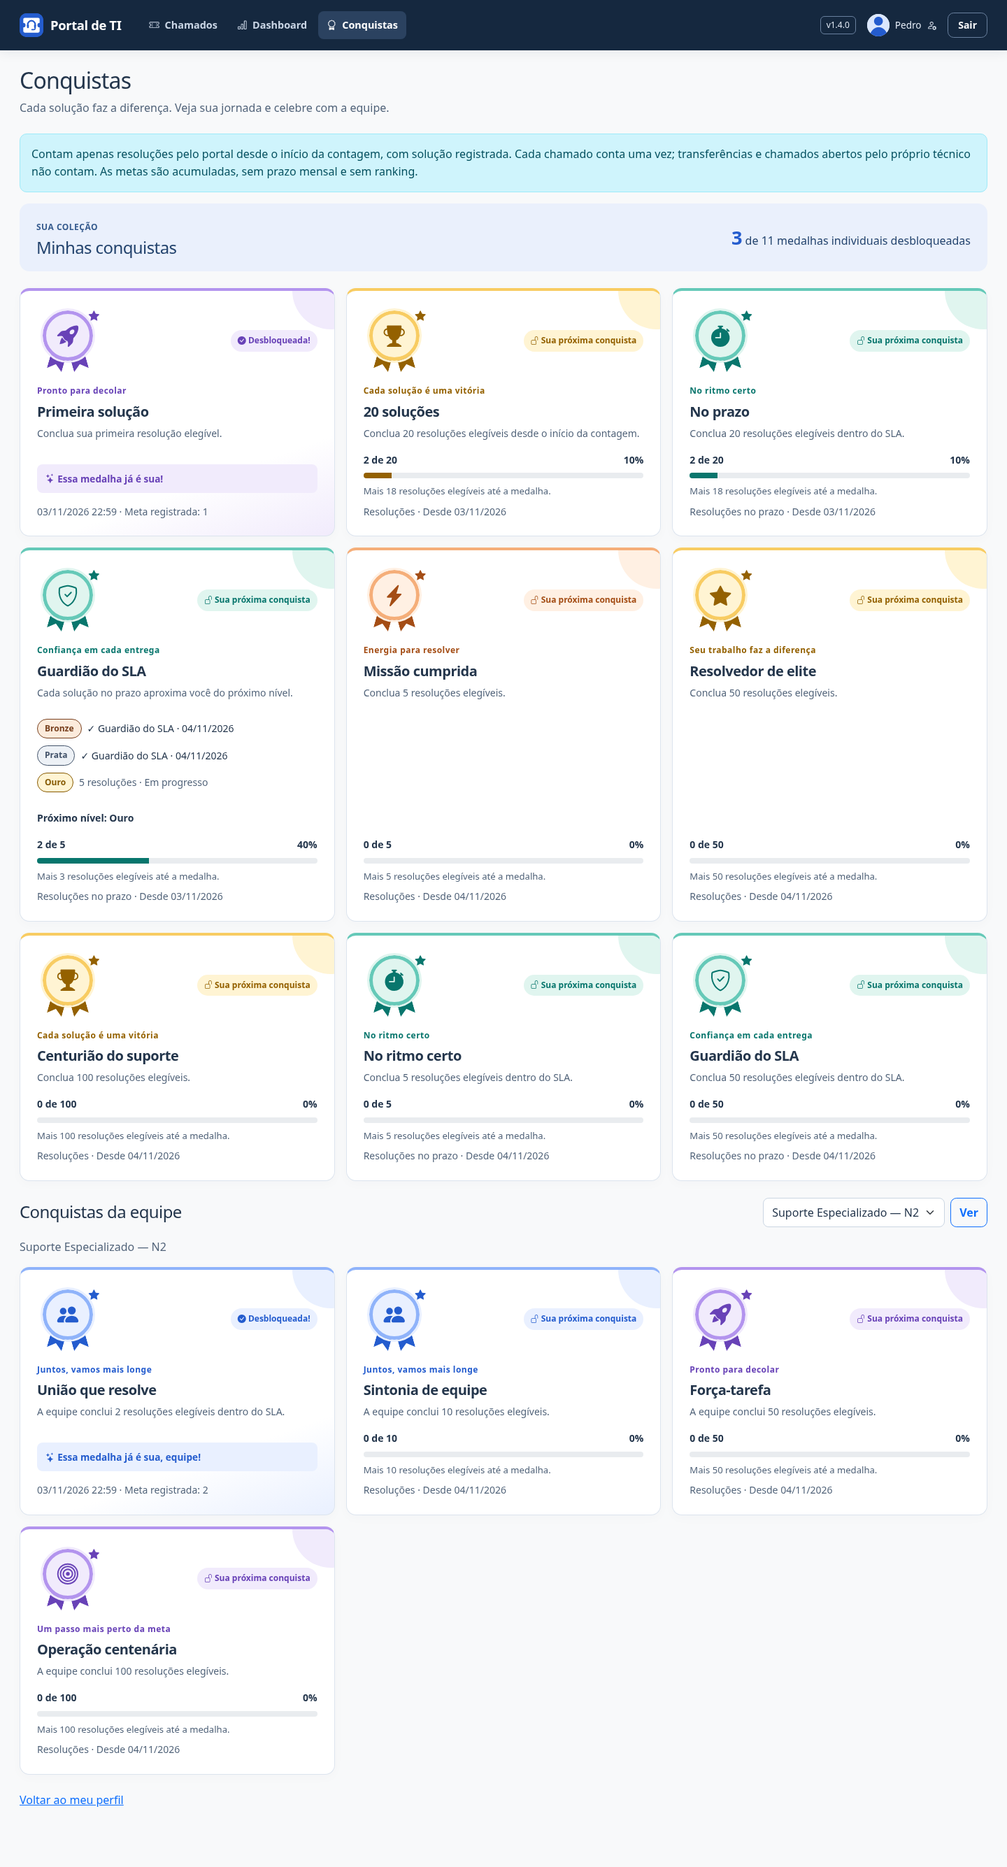
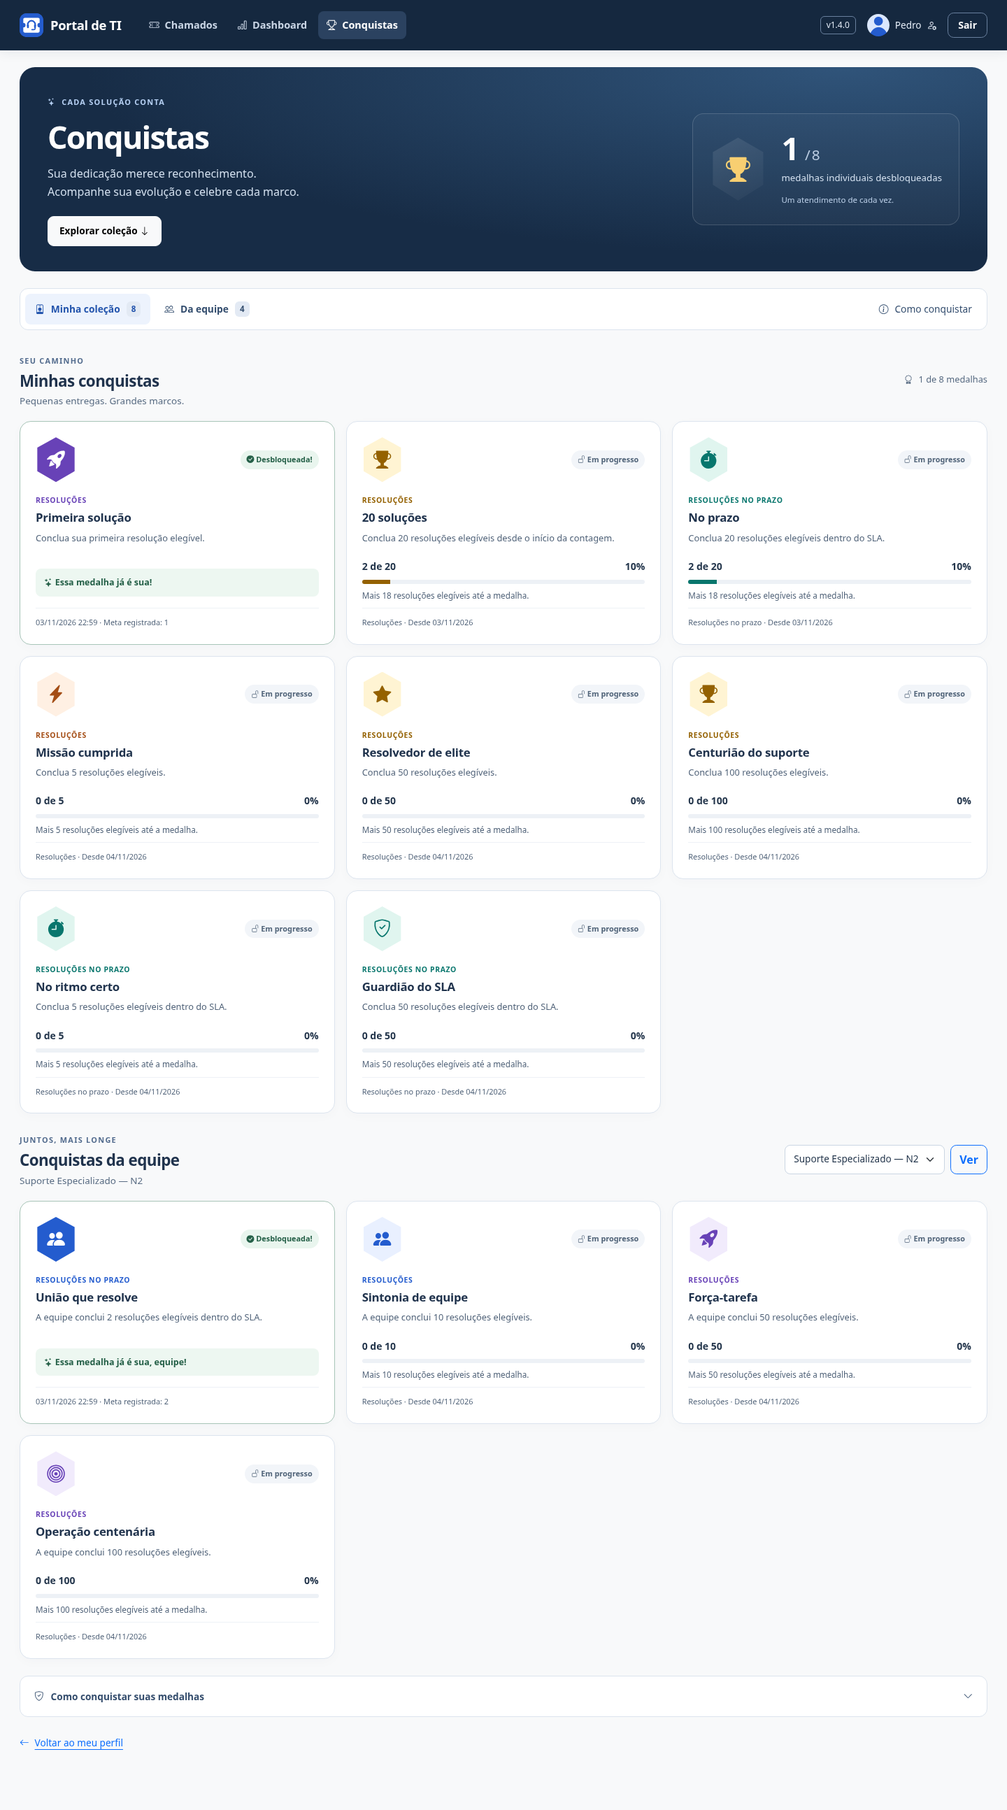
style: refine achievement collection and navigation

diff --git a/helpdesk/static/helpdesk/css/portal.css b/helpdesk/static/helpdesk/css/portal.css
@@ -186,3 +186,60 @@ form label { color: var(--portal-ink); }
 .nivel-unico { color: #245cce; background: #e9f0ff; }
 .trilha-niveis li { display: flex; flex-wrap: wrap; align-items: center; gap: 8px; margin-block: 10px; }
 .conquista-card h3, .conquista-card p, .trilha-niveis { overflow-wrap: anywhere; }
+/* Coleção de conquistas: navegação por seção e cartões compactos. */
+.conquistas-page { --colecao-ink: #20334d; --colecao-muted: #596c83; }
+.conquistas-hero { display: flex; justify-content: space-between; align-items: center; gap: 32px; padding: 36px 40px; border-radius: 22px; background: radial-gradient(ellipse at 85% 0, #30547a 0, transparent 65%), #172c46; color: #fff; }
+.conquistas-eyebrow { display: inline-flex; align-items: center; gap: 8px; font-size: .68rem; font-weight: 750; letter-spacing: .12em; color: #526b8d; }
+.conquistas-hero .conquistas-eyebrow { color: #b6d0f3; }
+.conquistas-hero h1 { color: #fff; font-size: clamp(2rem, 4vw, 2.8rem); font-weight: 750; letter-spacing: -.04em; margin: 12px 0; }
+.conquistas-hero-texto > p { color: #d2dfee; line-height: 1.65; margin-bottom: 22px; }
+.conquistas-hero-acoes { display: flex; align-items: center; flex-wrap: wrap; gap: 20px; }
+.conquistas-hero-acoes .btn { font-size: .85rem; font-weight: 650; padding: 10px 16px; border-radius: 9px; }
+.conquistas-gerenciar { color: #e1edfc; font-size: .85rem; text-underline-offset: 4px; }
+.conquistas-gerenciar:hover { color: #fff; }
+.conquistas-resumo { display: flex; align-items: center; gap: 22px; padding: 24px; border: 1px solid #ffffff29; border-radius: 16px; background: #ffffff08; max-width: 420px; }
+.conquistas-emblema { width: 80px; height: 90px; display: grid; place-items: center; flex-shrink: 0; color: #f8cf71; background: linear-gradient(145deg, #ffffff1c, #ffffff05); clip-path: polygon(50% 0, 95% 23%, 95% 75%, 50% 100%, 5% 75%, 5% 23%); font-size: 2.2rem; }
+.conquistas-resumo-numero { display: block; font-size: 2.8rem; font-weight: 750; line-height: 1.1; letter-spacing: -.04em; }
+.conquistas-resumo-numero > span { color: #bacce2; font-size: 1.3rem; font-weight: 450; }
+.conquistas-resumo p { font-size: .83rem; color: #d2dfee; margin: 8px 0; }
+.conquistas-resumo-legenda { font-size: .72rem; color: #b9cde6; }
+.conquistas-menu { display: flex; flex-wrap: wrap; gap: 6px; padding: 7px; border: 1px solid var(--portal-line); border-radius: 12px; background: #fff; margin-bottom: 30px; }
+.conquistas-menu a { display: inline-flex; align-items: center; justify-content: center; gap: 9px; min-height: 44px; padding: 8px 14px; border-radius: 8px; color: #334d6e; font-size: .86rem; font-weight: 650; text-decoration: none; }
+.conquistas-menu a:first-child { background: #edf3fd; color: #2455ad; }
+.conquistas-menu a:hover { background: #edf3fd; }
+.conquistas-menu a > span { background: #e3eaf4; padding: 2px 7px; border-radius: 6px; font-size: .72rem; }
+.conquistas-menu .conquistas-ajuda { margin-left: auto; font-weight: 450; }
+.conquistas-secao, .conquistas-regras { scroll-margin-top: 24px; }
+.conquistas-secao-titulo { display: flex; justify-content: space-between; align-items: center; flex-wrap: wrap; gap: 16px; margin-bottom: 18px; }
+.conquistas-secao h2 { font-size: 1.4rem; font-weight: 700; color: var(--colecao-ink); margin: 5px 0; letter-spacing: -.025em; }
+.conquistas-secao-titulo p { font-size: .84rem; color: var(--colecao-muted); margin: 0; }
+.conquistas-contador { display: inline-flex; gap: 8px; font-size: .8rem; color: var(--colecao-muted); }
+.conquistas-equipe-form { display: flex; gap: 8px; max-width: 100%; }
+.conquistas-equipe-form select { min-width: 0; max-width: 280px; font-size: .85rem; }
+.conquistas-page .conquista-card { border: 1px solid #dce4ee !important; border-radius: 16px; box-shadow: 0 3px 12px #17334e04; background: #fff; }
+.conquistas-page .conquista-card::after { display: none; }
+.conquistas-page .conquista-card .card-body { padding: 22px; }
+.conquistas-page .conquista-topo { margin-bottom: 18px !important; }
+.conquistas-page .conquista-medalha { width: 58px; height: 64px; }
+.conquistas-page .conquista-medalha::before, .conquistas-page .conquista-medalha::after, .conquistas-page .conquista-brilho { display: none; }
+.conquistas-page .conquista-medalha-centro { width: 58px; height: 64px; margin: 0; border: 0; outline: 0; border-radius: 0; clip-path: polygon(50% 0, 96% 23%, 96% 76%, 50% 100%, 4% 76%, 4% 23%); font-size: 1.6rem; background: var(--medalha-suave); }
+.conquistas-page .conquista-obtida { border-color: #a8c5b8 !important; }
+.conquistas-page .conquista-obtida .conquista-medalha-centro { color: #fff; background: var(--medalha); }
+.conquistas-page .conquista-estado { background: #f2f5f9; color: #52657a; font-size: .68rem; padding: 5px 9px; }
+.conquistas-page .conquista-obtida .conquista-estado { color: #256048; background: #e9f5ee; }
+.conquistas-page .conquista-chamada { font-size: .65rem; letter-spacing: .06em; text-transform: uppercase; margin-bottom: 7px !important; }
+.conquistas-page .conquista-card h3 { font-size: 1.05rem; color: var(--colecao-ink); letter-spacing: -.015em; }
+.conquistas-page .conquista-card h3 + p { font-size: .8rem; line-height: 1.6; margin-bottom: 20px; }
+.conquistas-page .conquista-card .progress { height: 6px; background: #edf1f6; }
+.conquistas-page .conquista-incentivo { font-size: .73rem; }
+.conquistas-page .conquista-data { font-size: .68rem; padding-top: 12px; border-top: 1px solid #edf1f6; }
+.conquistas-page .conquista-celebracao { font-size: .78rem; background: #edf7f1; color: #256048; }
+.conquistas-regras { border: 1px solid var(--portal-line); background: #fff; border-radius: 12px; margin: 8px 0 24px; }
+.conquistas-regras summary { display: flex; justify-content: space-between; align-items: center; gap: 14px; padding: 18px 20px; color: #344d6d; font-size: .85rem; font-weight: 650; cursor: pointer; list-style: none; }
+.conquistas-regras summary::-webkit-details-marker { display: none; }
+.conquistas-regras summary > span { display: inline-flex; align-items: center; gap: 10px; }
+.conquistas-regras[open] summary > .bi-chevron-down { transform: rotate(180deg); }
+.conquistas-regras > div { padding: 0 20px 20px; font-size: .84rem; line-height: 1.7; color: var(--colecao-muted); }
+.conquistas-voltar { display: inline-flex; gap: 8px; align-items: center; font-size: .85rem; text-underline-offset: 4px; }
+@media (max-width: 991.98px) { .conquistas-hero { padding: 28px; gap: 24px; } .conquistas-resumo { max-width: 300px; padding: 20px; gap: 14px; } .conquistas-emblema { width: 56px; height: 64px; font-size: 1.7rem; } }
+@media (max-width: 767.98px) { .conquistas-hero { flex-direction: column; align-items: stretch; padding: 24px; border-radius: 16px; } .conquistas-resumo { max-width: none; } .conquistas-menu a { flex: 1 1 auto; padding-inline: 10px; } .conquistas-menu .conquistas-ajuda { margin-left: 0; } .conquistas-secao-titulo { align-items: flex-start; } .conquistas-equipe-form { width: 100%; } .conquistas-equipe-form select { flex: 1; max-width: none; } }

diff --git a/helpdesk/templates/helpdesk/conquistas/lista.html b/helpdesk/templates/helpdesk/conquistas/lista.html
@@ -1,14 +1,21 @@
 {% extends 'helpdesk/equipes/base.html' %}
 {% block titulo %}Conquistas{% endblock %}
 {% block conteudo %}
-<div class="d-flex flex-wrap justify-content-between gap-3 mb-4"><div><h1 class="h2">Conquistas</h1><p class="text-muted mb-0">Cada solução faz a diferença. Veja sua jornada e celebre com a equipe.</p></div>{% if request.user.is_superuser %}<div><a class="btn btn-outline-primary" href="{% url 'gerenciar_conquistas' %}">Gerenciar conquistas</a></div>{% endif %}</div>
-<div class="alert alert-info">Contam apenas resoluções pelo portal desde o início da contagem, com solução registrada. Cada chamado conta uma vez; transferências e chamados abertos pelo próprio técnico não contam. As metas são acumuladas, sem prazo mensal e sem ranking.</div>
-<div class="conquista-colecao mb-4"><div><span class="conquista-chamada">SUA COLEÇÃO</span><h2 class="h4 mb-0 mt-1">Minhas conquistas</h2></div><p class="mb-0"><strong>{{ desbloqueadas }}</strong> de {{ total_pessoais }} medalhas individuais desbloqueadas</p></div>
+<div class="conquistas-page">
+<header class="conquistas-hero mb-4">
+    <div class="conquistas-hero-texto"><span class="conquistas-eyebrow"><i class="bi bi-stars" aria-hidden="true"></i> CADA SOLUÇÃO CONTA</span><h1>Conquistas</h1><p>Sua dedicação merece reconhecimento.<br>Acompanhe sua evolução e celebre cada marco.</p><div class="conquistas-hero-acoes"><a href="#minha-colecao" class="btn btn-light">Explorar coleção <i class="bi bi-arrow-down" aria-hidden="true"></i></a>{% if request.user.is_superuser %}<a class="conquistas-gerenciar" href="{% url 'gerenciar_conquistas' %}"><i class="bi bi-sliders" aria-hidden="true"></i> Gerenciar conquistas</a>{% endif %}</div></div>
+    <div class="conquistas-resumo"><span class="conquistas-emblema" aria-hidden="true"><i class="bi bi-trophy-fill"></i></span><div><span class="conquistas-resumo-numero">{{ desbloqueadas }} <span>/ {{ total_pessoais }}</span></span><p>medalhas individuais desbloqueadas</p><span class="conquistas-resumo-legenda">Um atendimento de cada vez.</span></div></div>
+</header>
+<nav class="conquistas-menu" aria-label="Seções de conquistas"><a href="#minha-colecao"><i class="bi bi-person-badge" aria-hidden="true"></i> Minha coleção <span>{{ pessoais|length }}</span></a>{% if equipe_selecionada %}<a href="#colecao-equipe"><i class="bi bi-people" aria-hidden="true"></i> Da equipe <span>{{ coletivas|length }}</span></a>{% endif %}<a href="#como-conquistar" class="conquistas-ajuda"><i class="bi bi-info-circle" aria-hidden="true"></i> Como conquistar</a></nav>
+<section id="minha-colecao" class="conquistas-secao" aria-labelledby="titulo-colecao"><div class="conquistas-secao-titulo"><div><span class="conquistas-eyebrow">SEU CAMINHO</span><h2 id="titulo-colecao">Minhas conquistas</h2><p>Pequenas entregas. Grandes marcos.</p></div><span class="conquistas-contador"><i class="bi bi-award" aria-hidden="true"></i> {{ desbloqueadas }} de {{ total_pessoais }} medalhas</span></div>
 {% include 'helpdesk/conquistas/cartoes.html' with cartoes=pessoais %}
+</section>
 {% if equipe_selecionada %}
-<div class="d-flex flex-wrap justify-content-between align-items-center gap-3 mb-3"><h2 class="h4 mb-0">Conquistas da equipe</h2><form method="get" class="d-flex gap-2"><label for="equipe-conquista" class="visually-hidden">Equipe</label><select class="form-select" id="equipe-conquista" name="equipe">{% for equipe in equipes %}<option value="{{ equipe.pk }}" {% if equipe.pk == equipe_selecionada.pk %}selected{% endif %}>{{ equipe.nome }}</option>{% endfor %}</select><button class="btn btn-outline-primary" type="submit">Ver</button></form></div>
-<p class="text-muted">{{ equipe_selecionada.nome }}{% if not equipe_selecionada.ativa %} · Equipe inativa{% endif %}</p>
+<section id="colecao-equipe" class="conquistas-secao" aria-labelledby="titulo-equipe"><div class="conquistas-secao-titulo"><div><span class="conquistas-eyebrow">JUNTOS, MAIS LONGE</span><h2 id="titulo-equipe">Conquistas da equipe</h2><p>{{ equipe_selecionada.nome }}{% if not equipe_selecionada.ativa %} · Equipe inativa{% endif %}</p></div><form method="get" action="#colecao-equipe" class="conquistas-equipe-form"><label for="equipe-conquista" class="visually-hidden">Equipe</label><select class="form-select" id="equipe-conquista" name="equipe">{% for equipe in equipes %}<option value="{{ equipe.pk }}" {% if equipe.pk == equipe_selecionada.pk %}selected{% endif %}>{{ equipe.nome }}</option>{% endfor %}</select><button class="btn btn-outline-primary" type="submit">Ver</button></form></div>
 {% include 'helpdesk/conquistas/cartoes.html' with cartoes=coletivas %}
+</section>
 {% endif %}
-<a href="{% url 'meu_perfil' %}">Voltar ao meu perfil</a>
+<details id="como-conquistar" class="conquistas-regras"><summary><span><i class="bi bi-shield-check" aria-hidden="true"></i> Como conquistar suas medalhas</span><i class="bi bi-chevron-down" aria-hidden="true"></i></summary><div><p>Contam apenas resoluções pelo portal desde o início da contagem, com solução registrada. Cada chamado conta uma vez; transferências e chamados abertos pelo próprio técnico não contam.</p><p class="mb-0">As metas são acumuladas, sem prazo mensal e sem ranking. A data de início e o critério aparecem em cada conquista; medalhas recebidas permanecem no seu histórico.</p></div></details>
+<a class="conquistas-voltar" href="{% url 'meu_perfil' %}"><i class="bi bi-arrow-left" aria-hidden="true"></i> Voltar ao meu perfil</a>
+</div>
 {% endblock %}

diff --git a/helpdesk/templates/helpdesk/conquistas/cartoes.html b/helpdesk/templates/helpdesk/conquistas/cartoes.html
@@ -1,13 +1,13 @@
 <div class="row g-3 mb-4">
-{% for item in cartoes %}<div class="col-md-6 col-xl-4"><article class="card h-100 conquista-card conquista-{{ item.visual.cor }} {% if item.conquista %}conquista-obtida{% elif not item.regra.ativa %}conquista-pausada{% endif %}"><div class="card-body p-4 d-flex flex-column">
-<div class="conquista-topo mb-3"><span class="conquista-medalha" aria-hidden="true"><span class="conquista-medalha-centro"><i class="bi bi-{{ item.visual.simbolo }}"></i></span><i class="bi bi-star-fill conquista-brilho"></i></span><span class="conquista-estado">{% if item.conquista %}<i class="bi bi-check-circle-fill" aria-hidden="true"></i> Desbloqueada!{% elif not item.regra.ativa %}<i class="bi bi-pause-circle" aria-hidden="true"></i> Pausada{% else %}<i class="bi bi-unlock" aria-hidden="true"></i> Sua próxima conquista{% endif %}</span></div>
-<p class="conquista-chamada mb-2">{{ item.visual.chamada }}</p>
+{% for item in cartoes %}<div class="col-md-6 col-xl-4"><article class="card h-100 conquista-card conquista-{{ item.visual.cor }} {% if item.conquista %}conquista-obtida{% elif not item.regra.ativa %}conquista-pausada{% endif %}"><div class="card-body d-flex flex-column">
+<div class="conquista-topo mb-3"><span class="conquista-medalha" aria-hidden="true"><span class="conquista-medalha-centro"><i class="bi bi-{{ item.visual.simbolo }}"></i></span><i class="bi bi-star-fill conquista-brilho"></i></span><span class="conquista-estado">{% if item.conquista %}<i class="bi bi-check-circle-fill" aria-hidden="true"></i> Desbloqueada!{% elif not item.regra.ativa %}<i class="bi bi-pause-circle" aria-hidden="true"></i> Pausada{% else %}<i class="bi bi-unlock" aria-hidden="true"></i> Em progresso{% endif %}</span></div>
+<p class="conquista-chamada mb-2">{{ item.regra.get_metrica_display }}</p>
 <h3 class="h5 fw-bold">{% if item.plano %}{{ item.plano.nome }}{% elif item.conquista %}{{ item.conquista.nome }}{% else %}{{ item.regra.nome }}{% endif %}</h3>
 <p class="text-muted small">{% if item.plano %}{{ item.plano.descricao }}{% elif item.conquista %}{{ item.conquista.descricao }}{% else %}{{ item.regra.descricao }}{% endif %}</p>
 {% if item.niveis %}<ol class="trilha-niveis list-unstyled mb-3">{% for nivel in item.niveis %}<li><span class="nivel-selo nivel-{{ nivel.regra.nivel }}">{{ nivel.regra.get_nivel_display }}</span> {% if nivel.conquista %}<span class="small">✓ {{ nivel.conquista.nome }} · {{ nivel.conquista.alcancada_em|date:'d/m/Y' }}</span>{% else %}<span class="small text-muted">{{ nivel.regra.meta }} resoluções · Em progresso</span>{% endif %}</li>{% endfor %}</ol><p class="small fw-semibold">{% if item.conquista %}Trilha completa!{% else %}Próximo nível: {{ item.regra.get_nivel_display }}{% endif %}</p>{% endif %}
 <div class="mt-auto">
-{% if item.conquista %}<div class="conquista-celebracao"><i class="bi bi-stars" aria-hidden="true"></i> {% if item.plano %}Você completou os três níveis{% else %}Essa medalha já é sua{% endif %}{% if item.conquista.equipe_id %}, equipe{% endif %}!</div><p class="small text-muted mt-3 mb-0">{{ item.conquista.alcancada_em|date:'d/m/Y H:i' }} · Meta registrada: {{ item.conquista.meta }}</p>
+{% if item.conquista %}<div class="conquista-celebracao"><i class="bi bi-stars" aria-hidden="true"></i> {% if item.plano %}Você completou os três níveis{% else %}Essa medalha já é sua{% endif %}{% if item.conquista.equipe_id %}, equipe{% endif %}!</div><p class="small text-muted conquista-data mt-3 mb-0">{{ item.conquista.alcancada_em|date:'d/m/Y H:i' }} · Meta registrada: {{ item.conquista.meta }}</p>
 {% else %}<div class="d-flex justify-content-between gap-2 small fw-semibold mb-2"><span>{{ item.total }} de {{ item.regra.meta }}</span><span>{{ item.percentual }}%</span></div><div class="progress" role="progressbar" aria-label="Progresso de {{ item.regra.nome }}" aria-valuenow="{{ item.percentual }}" aria-valuemin="0" aria-valuemax="100"><div class="progress-bar" style="width: {{ item.percentual }}%"></div></div>
 <p class="conquista-incentivo mt-2 mb-0">{% if not item.regra.ativa %}O progresso continua; novas concessões estão pausadas.{% elif item.faltam == 1 %}Falta só 1 resolução elegível para chegar lá!{% elif item.faltam > 1 %}Mais {{ item.faltam }} resoluções elegíveis até a medalha.{% else %}Meta atingida. A concessão é verificada no encerramento ou na reavaliação administrativa.{% endif %}</p>
-<p class="small text-muted mt-2 mb-0">{{ item.regra.get_metrica_display }} · Desde {{ item.regra.inicio_em|date:'d/m/Y' }}</p>{% endif %}
+<p class="small text-muted conquista-data mt-2 mb-0">{{ item.regra.get_metrica_display }} · Desde {{ item.regra.inicio_em|date:'d/m/Y' }}</p>{% endif %}
 </div></div></article></div>{% empty %}<p class="text-muted">Nenhuma regra cadastrada.</p>{% endfor %}</div>

diff --git a/helpdesk/templates/helpdesk/componentes/navegacao.html b/helpdesk/templates/helpdesk/componentes/navegacao.html
@@ -17,7 +17,7 @@
                 <li class="nav-item"><a class="nav-link{% if pagina == 'gerenciar_usuarios' or pagina == 'criar_usuario' or pagina == 'editar_usuario' %} active" aria-current="page{% endif %}" href="{% url 'gerenciar_usuarios' %}"><i class="bi bi-people" aria-hidden="true"></i> Gerenciar Usuários</a></li>
                 <li class="nav-item"><a class="nav-link{% if pagina == 'gerenciar_equipes' or pagina == 'criar_equipe' or pagina == 'editar_equipe' or pagina == 'listar_regras_encaminhamento' or pagina == 'criar_regra_encaminhamento' or pagina == 'editar_regra_encaminhamento' %} active" aria-current="page{% endif %}" href="{% url 'gerenciar_equipes' %}"><i class="bi bi-diagram-3" aria-hidden="true"></i> Gerenciar Equipes</a></li>
                 {% endif %}
-                <li class="nav-item"><a class="nav-link{% if pagina == 'minhas_conquistas' or pagina == 'gerenciar_conquistas' or pagina == 'editar_conquista' or pagina == 'criar_plano' or pagina == 'editar_plano' or pagina == 'prever_plano' or pagina == 'aparencia_plano' %} active" aria-current="page{% endif %}" href="{% url 'minhas_conquistas' %}"><i class="bi bi-award" aria-hidden="true"></i> Conquistas</a></li>
+                <li class="nav-item"><a class="nav-link{% if pagina == 'minhas_conquistas' or pagina == 'gerenciar_conquistas' or pagina == 'editar_conquista' or pagina == 'criar_plano' or pagina == 'editar_plano' or pagina == 'prever_plano' or pagina == 'aparencia_plano' %} active" aria-current="page{% endif %}" href="{% url 'minhas_conquistas' %}"><i class="bi bi-trophy" aria-hidden="true"></i> Conquistas</a></li>
             </ul>
             {% endwith %}
             <div class="portal-account">

diff --git a/docs/conquistas.md b/docs/conquistas.md
@@ -1,6 +1,6 @@
 # Conquistas — v1.4.0
 
-Acesse **Conquistas** para acompanhar o progresso individual e das equipes acessíveis. A coleção agrupa os níveis de cada conquista e aponta a próxima medalha. O perfil mostra até três medalhas individuais recentes; o encerramento avisa quando um novo nível é desbloqueado.
+Acesse **Conquistas** para acompanhar o progresso individual e das equipes acessíveis. O cabeçalho resume as medalhas recebidas. Use os atalhos **Minha coleção**, **Da equipe** e **Como conquistar** para navegar; os critérios gerais ficam em um painel expansível. A coleção agrupa os níveis de cada conquista e aponta a próxima medalha. O perfil mostra até três medalhas individuais recentes; o encerramento avisa quando um novo nível é desbloqueado.
 
 ## Catálogo pronto para usar
 
@@ -58,6 +58,8 @@ Faça backup, atualize o código, aplique `python manage.py migrate`, colete est
 
 Capturas com contas e dados fictícios; metas reduzidas apenas para demonstrar a evolução.
 
-![Coleção e progresso por nível](imagens/conquistas.png)
+![Coleção com resumo, emblemas e atalhos por seção](imagens/conquistas.png)
+
+![Prévia da coleção em celular](imagens/conquistas-mobile.png)
 
 ![Gestão de conquistas e histórico](imagens/gestao-conquistas.png)

diff --git a/README.md b/README.md
@@ -19,7 +19,7 @@ As capturas da galeria principal foram registradas na **v1.1.0**, com a marca at
 
 O portal já vem com **12 conquistas predefinidas**, concedidas automaticamente: marcos individuais de resoluções, atendimento dentro do SLA e resultados coletivos. Entre elas: Missão cumprida, Centurião do suporte, Guardião do SLA e Força-tarefa. Acompanhe o progresso em **Conquistas** e as medalhas no perfil. Não há opção de criar novas conquistas. O administrador consulta o catálogo e gerencia as configurações existentes sem apagar medalhas recebidas. [Critérios e operação](docs/conquistas.md).
 
-![Coleção de conquistas e progresso com dados fictícios](docs/imagens/conquistas.png)
+![Coleção de conquistas com navegação por seção, emblemas e progresso; dados fictícios](docs/imagens/conquistas.png)
 
 ## Meu Perfil
 

diff --git a/CHANGELOG.md b/CHANGELOG.md
@@ -1,5 +1,12 @@
 # Histórico de atualizações
 
+## Refinamento visual — Coleção de conquistas
+
+- Cabeçalho com resumo de medalhas e navegação por coleção pessoal, equipe e critérios.
+- Cards mais compactos, emblemas hexagonais, estados por texto e progresso com leitura mais clara.
+- Regras em painel expansível nativo e navegação por âncoras, sem dependência de JavaScript.
+- Ícone de troféu no menu; critérios, contagem, permissões e medalhas preservados.
+
 ## Ampliação do catálogo de conquistas
 
 - Oito novas conquistas prontas para uso: marcos individuais, atendimento dentro do SLA e resultados de equipe; catálogo passa a ter 12 conquistas.
